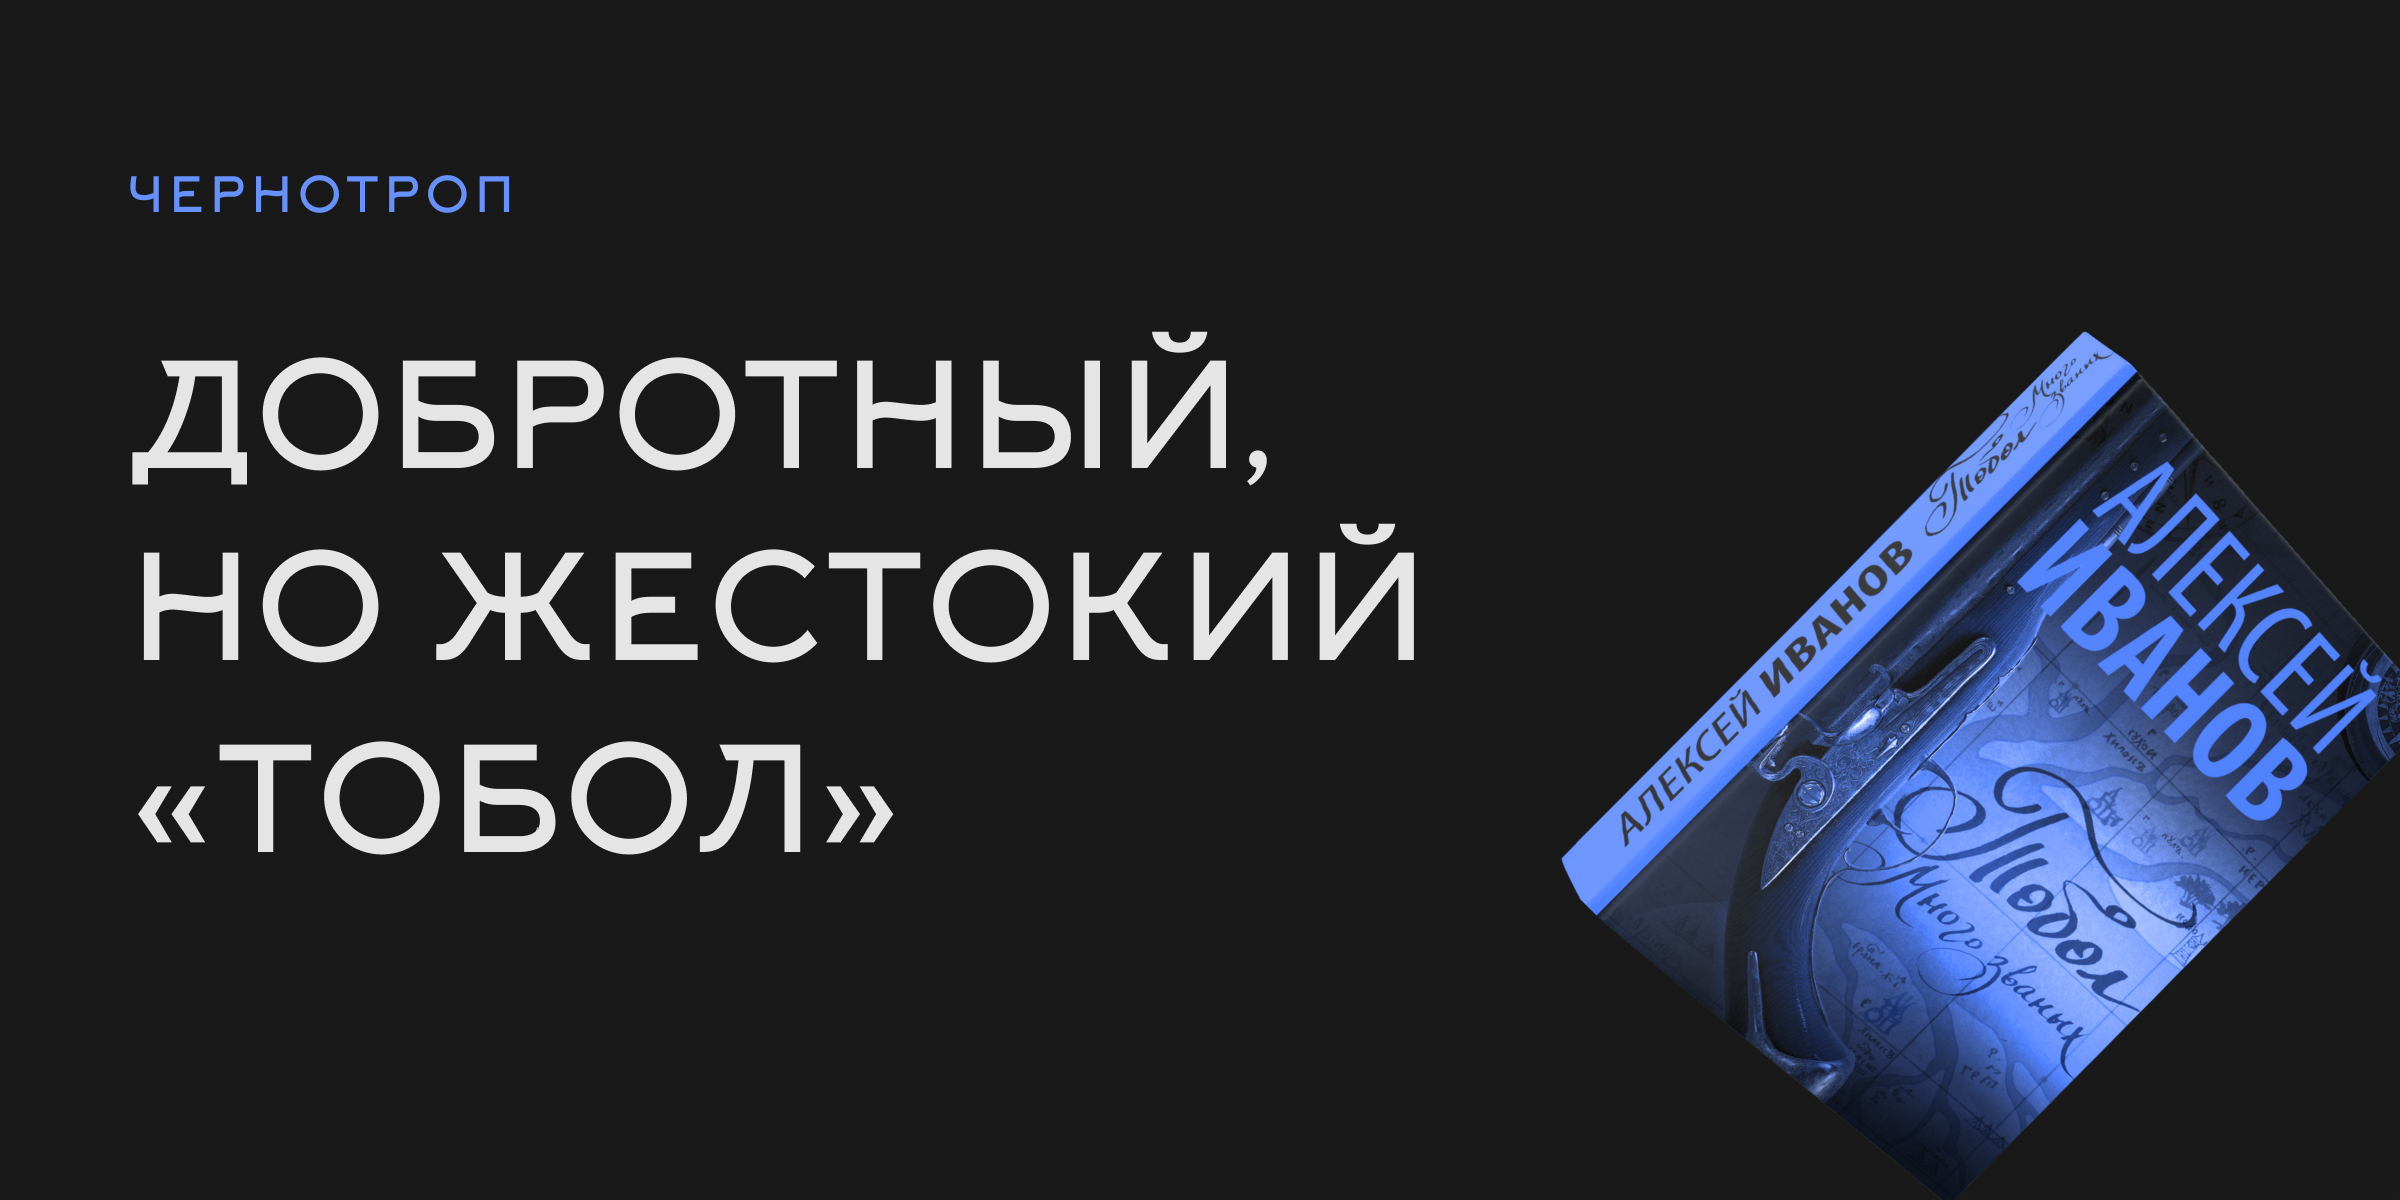
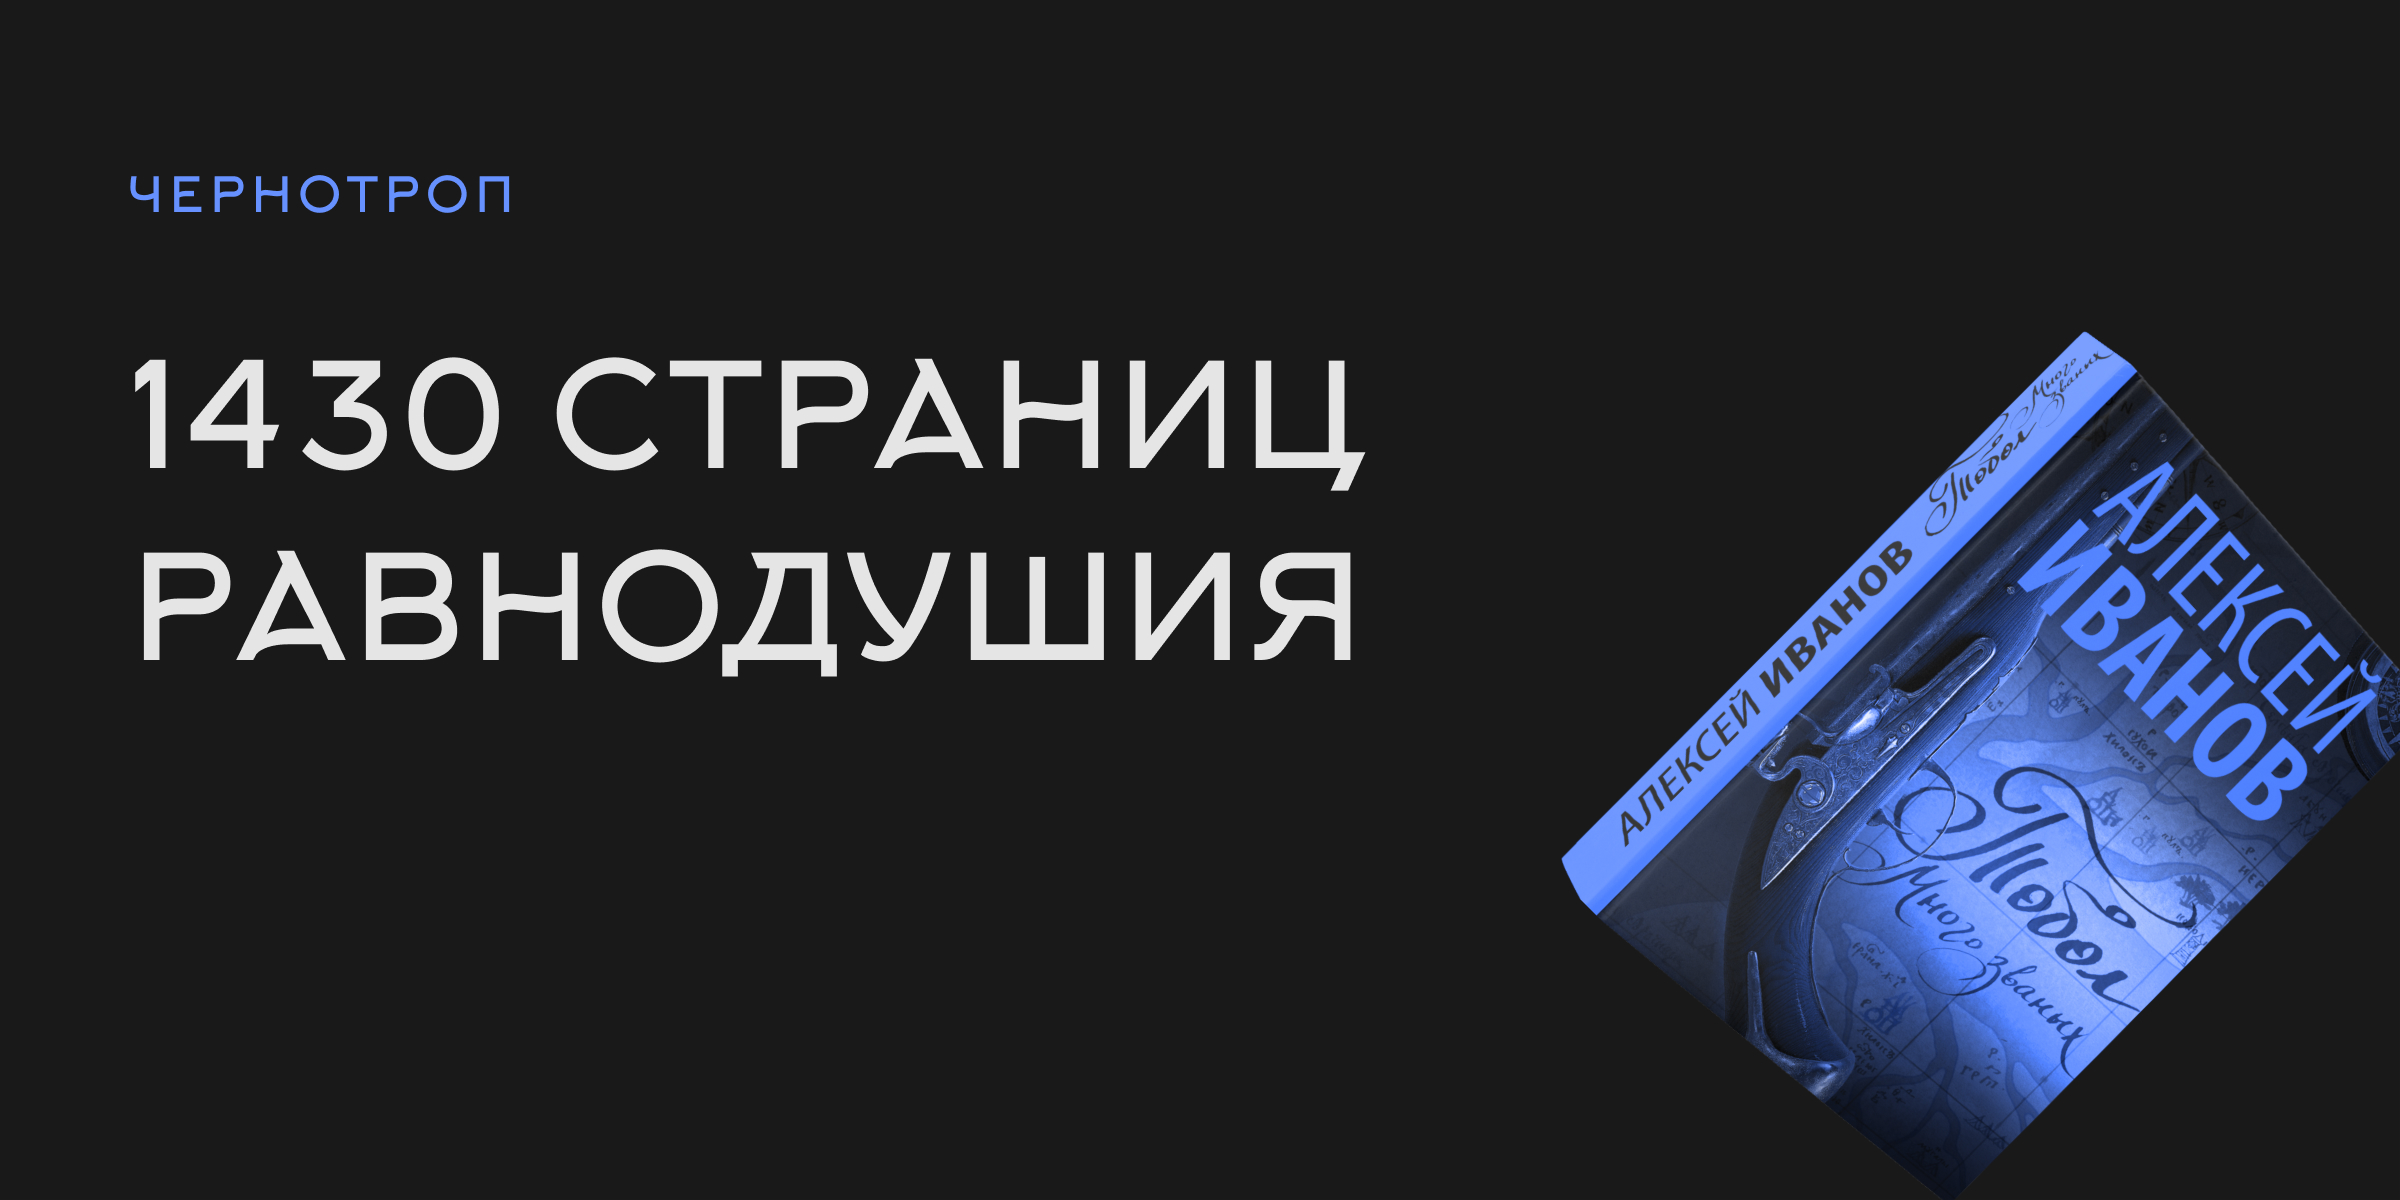
Tobol small fixes

Changed region(s): [[0.0312, 0.2775, 0.5625, 0.4008], [0.0625, 0.4317, 0.5938, 0.555], [0.0625, 0.6167, 0.375, 0.7092]]

diff --git a/docs/tobol.html b/docs/tobol.html
@@ -5,7 +5,7 @@
     <meta name="viewport" content="width=device-width, initial-scale=1.0"/>
     <meta property="og:type" content=""/>
     <meta property="og:title" content="Добротный, но жестокий «Тобол» ⚒ Чернотроп"/>
-    <meta property="og:description" content="Почему, несмотря на добротное качество, дилогию Иванова так тяжело дочитать?"/>
+    <meta property="og:description" content="Артём Сошников разбирается, почему дилогию Иванова так тяжело дочитать?"/>
     <meta property="og:image" content="http://chernotrop.reviews/img/ivanov-tobol-og.jpg"/>
     <link href="https://fonts.googleapis.com/icon?family=Material+Icons" rel="stylesheet"/>
     <link rel="stylesheet"/><!-- Yandex.Metrika counter --> <script type="text/javascript" > (function(m,e,t,r,i,k,a){m[i]=m[i]||function(){(m[i].a=m[i].a||[]).push(arguments)}; m[i].l=1*new Date();k=e.createElement(t),a=e.getElementsByTagName(t)[0],k.async=1,k.src=r,a.parentNode.insertBefore(k,a)}) (window, document, "script", "https://mc.yandex.ru/metrika/tag.js", "ym"); ym(56951962, "init", { clickmap:true, trackLinks:true, accurateTrackBounce:true, webvisor:true, trackHash:true }); </script> <noscript><div><img src="https://mc.yandex.ru/watch/56951962" style="position:absolute; left:-9999px;" alt="" /></div></noscript> <!-- /Yandex.Metrika counter -->
